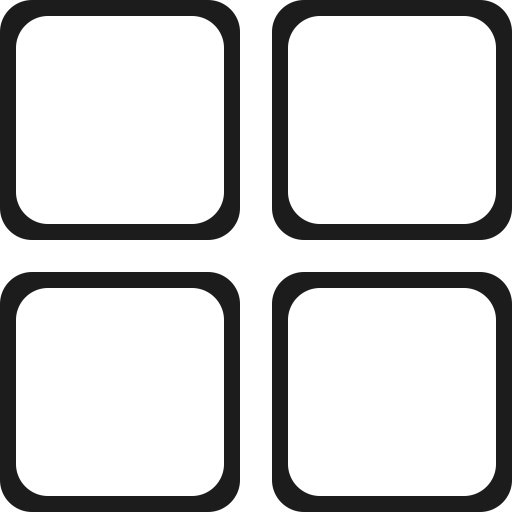
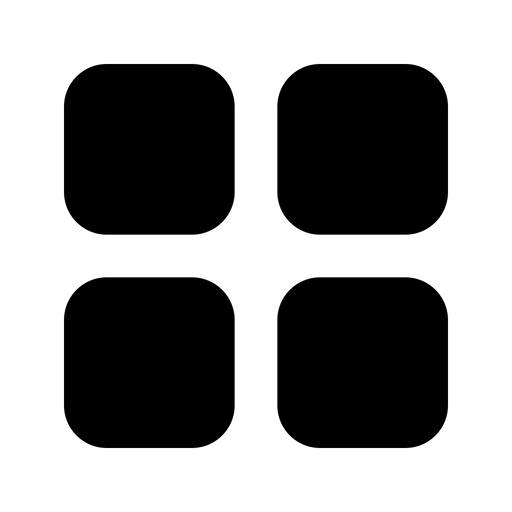
worked on chat screen

diff --git a/lib/ui/widgets/chat_screen.dart b/lib/ui/widgets/chat_screen.dart
@@ -1,0 +1,220 @@
+import 'package:esalerz/model/chat/chatmodel.dart';
+import 'package:esalerz/res/app_colors.dart';
+import 'package:esalerz/res/app_images.dart';
+import 'package:esalerz/ui/widgets/bigtext.dart';
+import 'package:esalerz/ui/widgets/smalltext.dart';
+import 'package:esalerz/ui/widgets/text_edit_view.dart';
+import 'package:flutter/material.dart';
+
+class ChatScreen extends StatefulWidget {
+  final List<ChatMessage> initialMessages; // Add this property
+
+  const ChatScreen({required this.initialMessages});
+  @override
+  _ChatScreenState createState() => _ChatScreenState(messages: initialMessages);
+}
+
+class _ChatScreenState extends State<ChatScreen> {
+  final List<ChatMessage> messages;
+  _ChatScreenState({required this.messages});
+
+  final TextEditingController _textController = TextEditingController();
+
+  void _handleSubmittedMessage(String text) {
+    if (text.isNotEmpty) {
+      setState(() {
+        messages.add(
+          ChatMessage(text: text, timestamp: DateTime.now(), isMe: true),
+        );
+      });
+      _textController.clear();
+    }
+  }
+
+  @override
+  Widget build(BuildContext context) {
+    return Scaffold(
+      appBar: AppBar(
+        backgroundColor: AppColors.cardColor,
+        elevation: 0,
+        title: Row(
+          children: [
+            const CircleAvatar(
+              backgroundColor: Colors.transparent,
+              backgroundImage: AssetImage('assets/images/man.jpg'),
+              radius: 15,
+            ),
+            const SizedBox(width: 8),
+            BigText(
+              text: 'Dr. Marshal',
+              size: 18,
+            ),
+          ],
+        ),
+        leading: GestureDetector(
+          onTap: () {
+            Navigator.pop(context);
+          },
+          child: Container(
+            decoration: BoxDecoration(
+              borderRadius: BorderRadius.circular(10),
+            ),
+            child: const Center(
+              child: Icon(Icons.arrow_back, color: AppColors.lightPrimary),
+            ),
+          ),
+        ),
+        actions: [
+          Container(
+            height: 50,
+            width: 50,
+            decoration: BoxDecoration(
+              borderRadius: BorderRadius.circular(10),
+            ),
+            child: Center(
+              child: Image.asset(
+                'assets/images/call.png',
+                height: 25,
+                color: AppColors.lightPrimary,
+              ),
+            ),
+          ),
+          Container(
+            height: 50,
+            width: 50,
+            decoration: BoxDecoration(
+              borderRadius: BorderRadius.circular(10),
+            ),
+            child: Center(
+              child: Image.asset(
+                'assets/images/video.png',
+                height: 25,
+                color: AppColors.lightPrimary,
+              ),
+            ),
+          ),
+        ],
+      ),
+      body: Stack(
+        children: [
+          Container(
+            decoration: const BoxDecoration(
+                image: DecorationImage(
+                    image: AssetImage(
+                      AppImages.bg,
+                    ),
+                    fit: BoxFit.cover)),
+          ),
+          Container(
+            color: Colors.white70,
+            height: MediaQuery.sizeOf(context).height,
+            width: MediaQuery.sizeOf(context).width,
+          ),
+          Column(
+            children: [
+              Flexible(
+                child: ListView.builder(
+                  itemCount: messages.length,
+                  itemBuilder: (context, index) {
+                    final message = messages[index];
+                    return ListTile(
+                      title: Align(
+                        alignment: Alignment.topRight,
+                        child: Container(
+                          padding: const EdgeInsets.all(10),
+                          decoration: const BoxDecoration(
+                              color: AppColors.lightPrimary,
+                              borderRadius: BorderRadius.only(
+                                topLeft: Radius.circular(15),
+                                topRight: Radius.circular(15),
+                                bottomLeft: Radius.circular(15),
+                                bottomRight: Radius.circular(3),
+                              )),
+                          child: SmallText(
+                            text: message.text,
+                            color: Colors.white,
+                          ),
+                        ),
+                      ),
+                      subtitle: Text(
+                        message.isMe ? 'You' : 'Other User',
+                        textAlign:
+                            message.isMe ? TextAlign.right : TextAlign.left,
+                      ),
+                      // Display timestamp here if needed
+                    );
+                  },
+                ),
+              ),
+              const Divider(height: 1.0),
+              Container(
+                margin: const EdgeInsets.only(bottom: 10),
+                decoration: BoxDecoration(
+                  color: Theme.of(context).cardColor,
+                ),
+                child: _buildTextComposer(),
+              ),
+            ],
+          ),
+        ],
+      ),
+    );
+  }
+
+  Widget _buildTextComposer() {
+    return IconTheme(
+      data: IconThemeData(
+        color: Theme.of(context).canvasColor,
+      ),
+      child: Container(
+        margin: const EdgeInsets.symmetric(horizontal: 10.0),
+        child: Row(
+          children: [
+            Container(
+              decoration: BoxDecoration(
+                border: Border.all(width: 0.5, color: Colors.grey),
+                //color: AppColors.lightPrimary,
+                borderRadius: BorderRadius.circular(10),
+              ),
+              child: IconButton(
+                icon: Image.asset(
+                  'assets/images/gallery-add.png',
+                  color: AppColors.lightPrimary,
+                ),
+                onPressed: () {},
+              ),
+            ),
+            const SizedBox(
+              width: 5,
+            ),
+            Flexible(
+              child: TextEditView(
+                borderWidth: 0.5,
+                controller: _textController,
+                hintText: 'Type something',
+                onFieldSubmitted: _handleSubmittedMessage,
+                filled: false,
+                autofocus: false,
+                isDense: true,
+                borderColor: AppColors.lightPrimary,
+              ),
+            ),
+            const SizedBox(
+              width: 5,
+            ),
+            Container(
+              decoration: BoxDecoration(
+                color: AppColors.lightPrimary,
+                borderRadius: BorderRadius.circular(10),
+              ),
+              child: IconButton(
+                icon: const Icon(Icons.send),
+                onPressed: () => _handleSubmittedMessage(_textController.text),
+              ),
+            ),
+          ],
+        ),
+      ),
+    );
+  }
+}

diff --git a/lib/ui/userservice_info.dart b/lib/ui/userservice_info.dart
@@ -1,8 +1,10 @@
+import 'package:esalerz/model/chat/chatmodel.dart';
 import 'package:esalerz/model/service_contents.dart';
 import 'package:esalerz/model/service_term.dart';
 import 'package:esalerz/res/app_colors.dart';
 import 'package:esalerz/res/app_images.dart';
 import 'package:esalerz/ui/widgets/bigtext.dart';
+import 'package:esalerz/ui/widgets/chat_screen.dart';
 import 'package:esalerz/ui/widgets/customer_reviews.dart';
 import 'package:esalerz/ui/widgets/dotindicator.dart';
 import 'package:esalerz/ui/widgets/smalltext.dart';
@@ -234,7 +236,20 @@ class _UserServiceInfoState extends State<UserServiceInfo> {
                           title: 'Start chat',
                           textcolor: Colors.white,
                           backgroundcolor: AppColors.lightSecondary,
-                          onpressed: () {},
+                          onpressed: () {
+                            final initialMessages = [
+                              ChatMessage(
+                                  text: messageController.text,
+                                  timestamp: DateTime.now(),
+                                  isMe: true)
+                            ];
+                            NavigationHelper.navigateToPage(
+                              context,
+                              ChatScreen(
+                                  initialMessages:
+                                      initialMessages), // Pass initial messages
+                            );
+                          },
                         ),
                       ],
                     ),
@@ -528,8 +543,9 @@ class _UserServiceInfoState extends State<UserServiceInfo> {
                                     !isGridView; // Toggle the view mode
                               });
                             },
-                            icon: Icon(
-                              Icons.grid_view_rounded,
+                            icon: Image.asset(
+                              'assets/images/grid.png',
+                              height: 20,
                               color: isGridView
                                   ? AppColors.lightPrimary
                                   : Colors.black,
@@ -542,8 +558,9 @@ class _UserServiceInfoState extends State<UserServiceInfo> {
                                     !isGridView; // Toggle the view mode
                               });
                             },
-                            icon: Icon(
-                              Icons.list,
+                            icon: Image.asset(
+                              'assets/images/list.png',
+                              height: 20,
                               color: isGridView
                                   ? Colors.black
                                   : AppColors.lightPrimary,

diff --git a/lib/ui/widgets/widget.dart b/lib/ui/widgets/widget.dart
@@ -854,7 +854,19 @@ class _ProfileImagePickerState extends State<ProfileImagePicker> {
                 child: ListBody(
                   children: <Widget>[
                     ListTile(
-                      leading: const Icon(Icons.camera),
+                      leading: Container(
+                        padding: const EdgeInsets.all(10),
+                        decoration: BoxDecoration(
+                          borderRadius: BorderRadius.circular(10),
+                          color: AppColors.lightPrimary,
+                        ),
+                        child: Image.asset(
+                          'assets/images/camera.png',
+                          fit: BoxFit.cover,
+                          height: 30,
+                          color: Colors.white,
+                        ),
+                      ),
                       title: const Text('Camera'),
                       onTap: () {
                         _pickImage(ImageSource.camera);
@@ -862,7 +874,19 @@ class _ProfileImagePickerState extends State<ProfileImagePicker> {
                       },
                     ),
                     ListTile(
-                      leading: const Icon(Icons.image),
+                      leading: Container(
+                        padding: const EdgeInsets.all(10),
+                        decoration: BoxDecoration(
+                          borderRadius: BorderRadius.circular(10),
+                          color: AppColors.lightPrimary,
+                        ),
+                        child: Image.asset(
+                          'assets/images/gallery.png',
+                          fit: BoxFit.contain,
+                          height: 30,
+                          color: Colors.white,
+                        ),
+                      ),
                       title: const Text('Gallery'),
                       onTap: () {
                         _pickImage(ImageSource.gallery);
@@ -926,7 +950,6 @@ class TextInputField {
     Color enabledBorderColor = Colors.grey,
   }) {
     return TextField(
-      
       controller: controller,
       keyboardType: keyboardType,
       decoration: InputDecoration(

diff --git a/lib/ui/profile.dart b/lib/ui/profile.dart
@@ -43,10 +43,12 @@ class Profile extends StatelessWidget {
             decoration: BoxDecoration(
               borderRadius: BorderRadius.circular(10),
             ),
-            child: const Center(
-              child: Icon(Icons.notifications_sharp,
-                  color: AppColors.lightPrimary),
-            ),
+            child: Center(
+                child: Image.asset(
+              'assets/images/notification1.png',
+              height: 25,
+              color: AppColors.lightPrimary,
+            )),
           ),
         ],
       ),

diff --git a/lib/model/chat/chatmodel.dart b/lib/model/chat/chatmodel.dart
@@ -1,0 +1,11 @@
+class ChatMessage {
+  final String text;
+  final DateTime timestamp;
+  final bool isMe;
+
+  ChatMessage({
+    required this.text,
+    required this.timestamp,
+    required this.isMe,
+  });
+}
